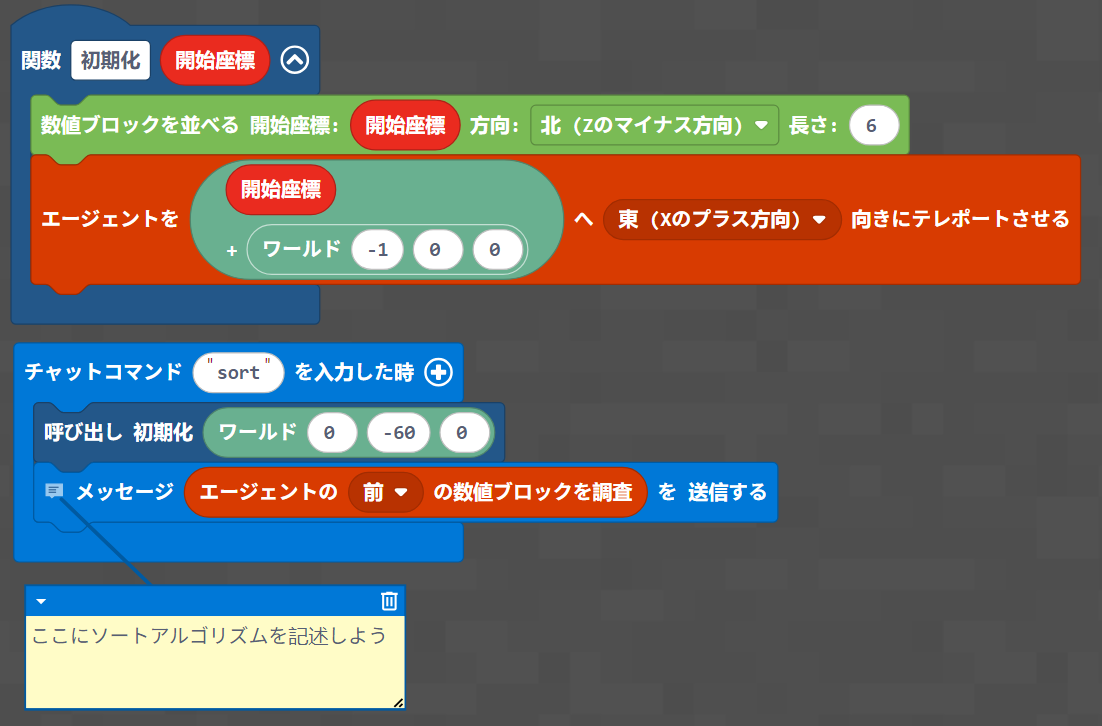
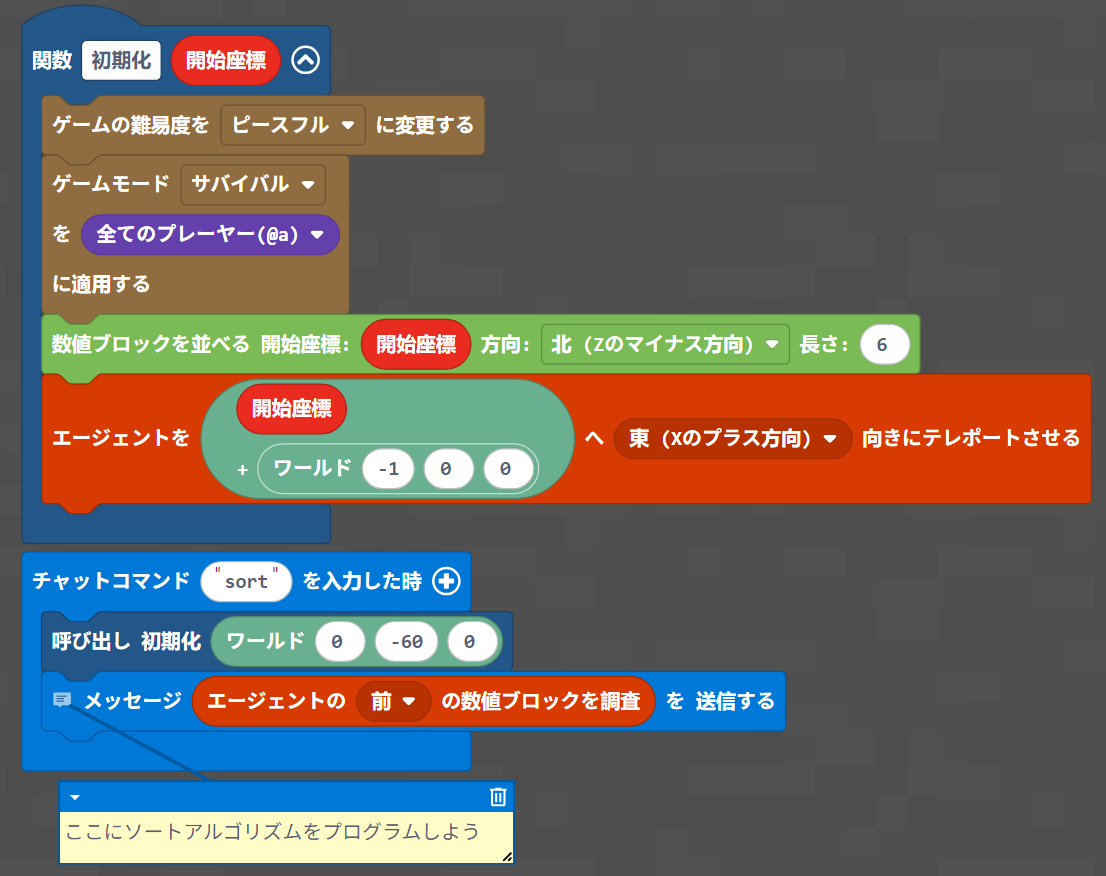
READMEとテンプレートファイルを更新
- スターターテンプレート画像を更新
- minecraft-NumericBlock.mkcdテンプレートファイルを更新

🤖 Generated with [Claude Code](https://claude.com/claude-code)

diff --git a/README.md b/README.md
@@ -44,17 +44,20 @@
 ![ソートテンプレート](images/sort-starter-template.png)
 
 ```typescript
-function 初期化(開始座標: Position) {
-  // ランダムな数値ブロックを6個、北向きに一列配置
-  blocks.numline(開始座標, NORTH_CARDINAL_DIRECTION, 6);
-  // エージェントを配置
-  agent.teleport(positions.add(開始座標, world(-1, 0, 0)), EAST);
+function 初期化 (開始座標: Position) {
+    // 破壊したブロックを1個だけ保持したいのでサバイバルモード
+    gameplay.setDifficulty(PEACEFUL)
+    gameplay.setGameMode(SURVIVAL, mobs.target(ALL_PLAYERS))
+    // 数値ブロックを並べる
+    blocks.numline(開始座標, NORTH_CARDINAL_DIRECTION, 6)
+    // エージェントを開始位置にテレポート
+    agent.teleport(positions.add(開始座標,world(-1, 0, 0)), EAST)
 }
 player.onChat("sort", function () {
-  初期化(world(0, -60, 0));
-  // ソートアルゴリズムを記述
-  player.say(agent.inspectNumericBlock(FORWARD));
-});
+    初期化(world(0, -60, 0))
+    // ここにソートアルゴリズムをプログラムしよう
+    player.say(agent.inspectNumericBlock(FORWARD))
+})
 ```
 
 **`blocks.numline` ブロック:**
